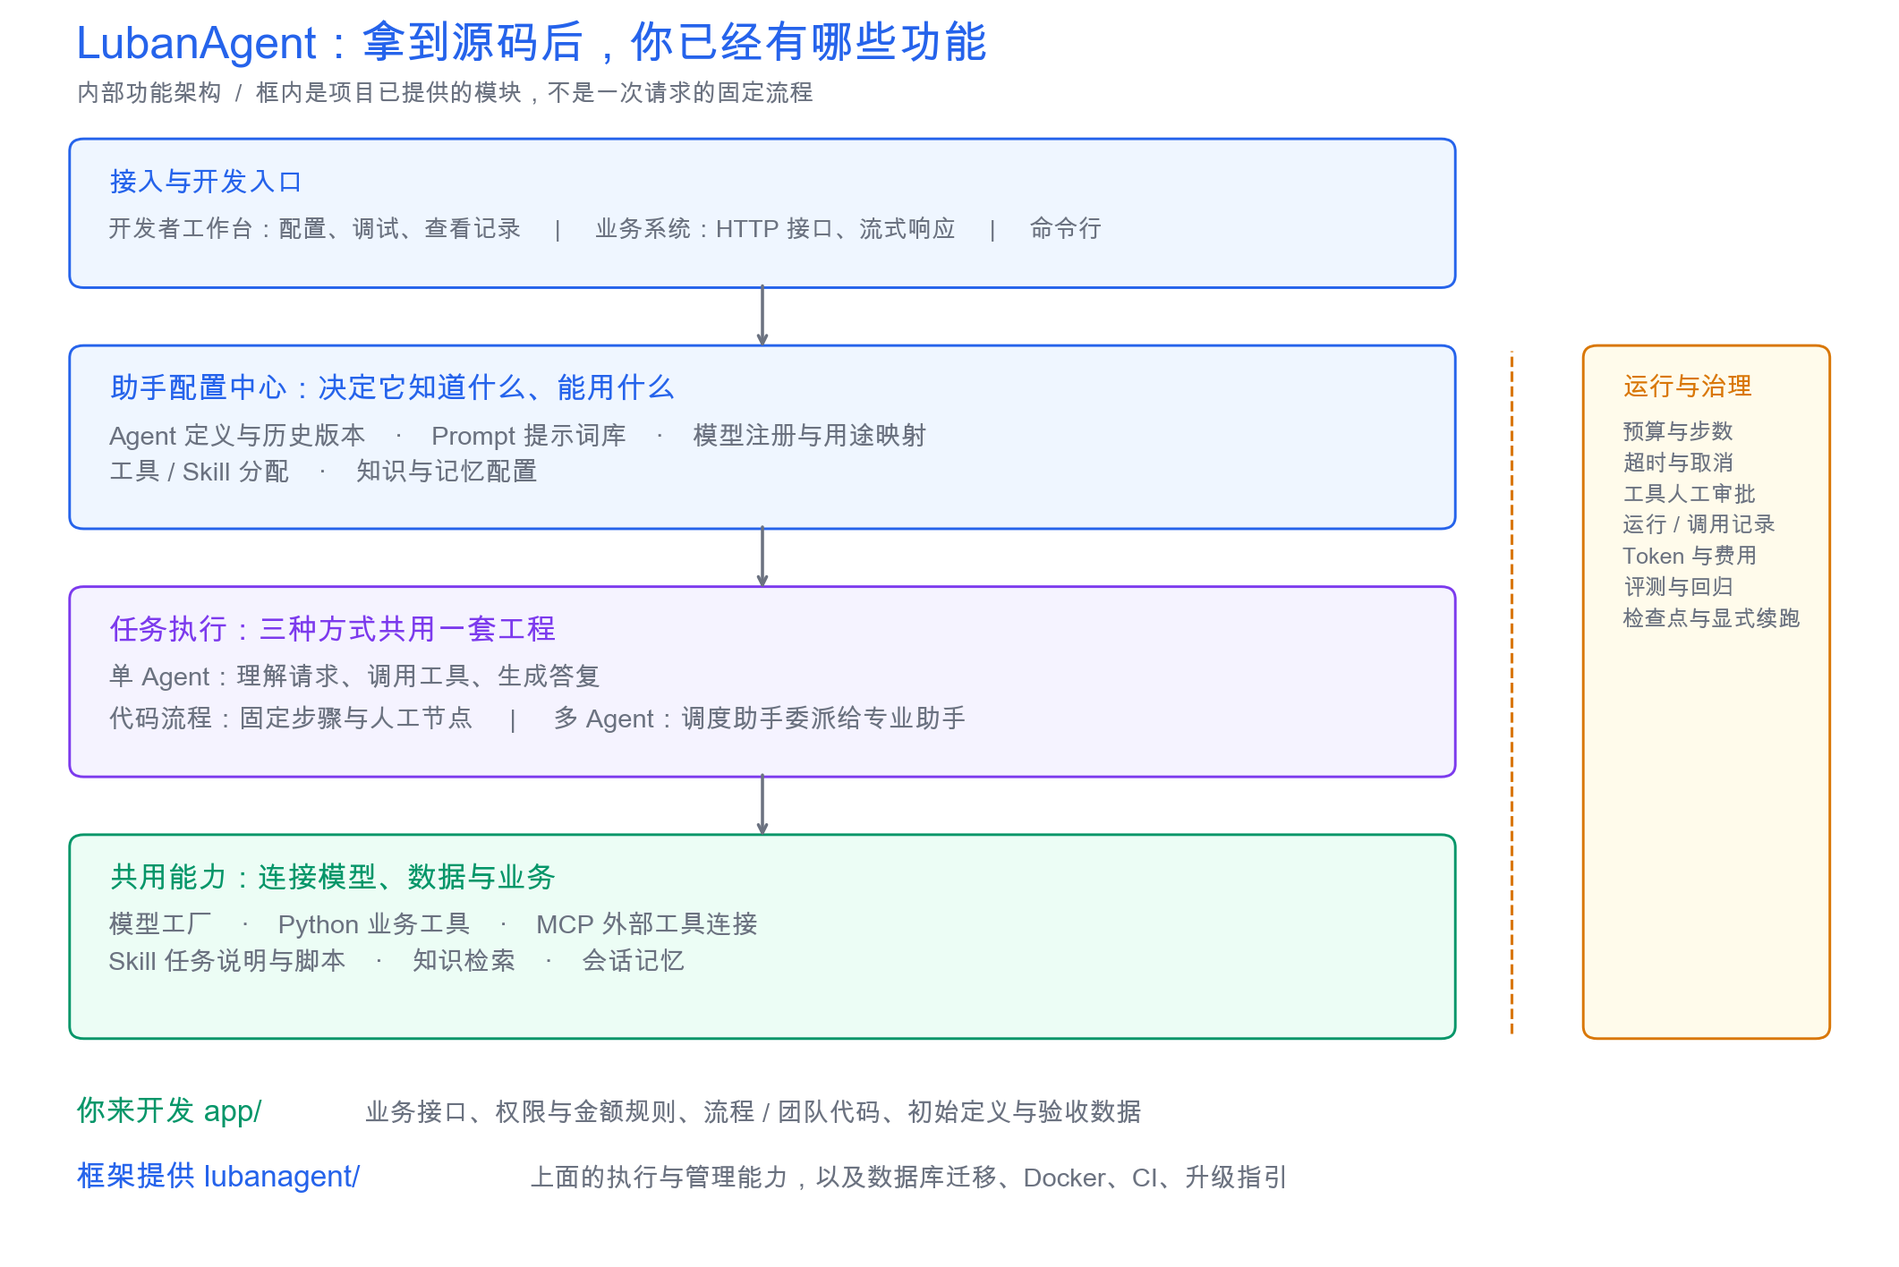
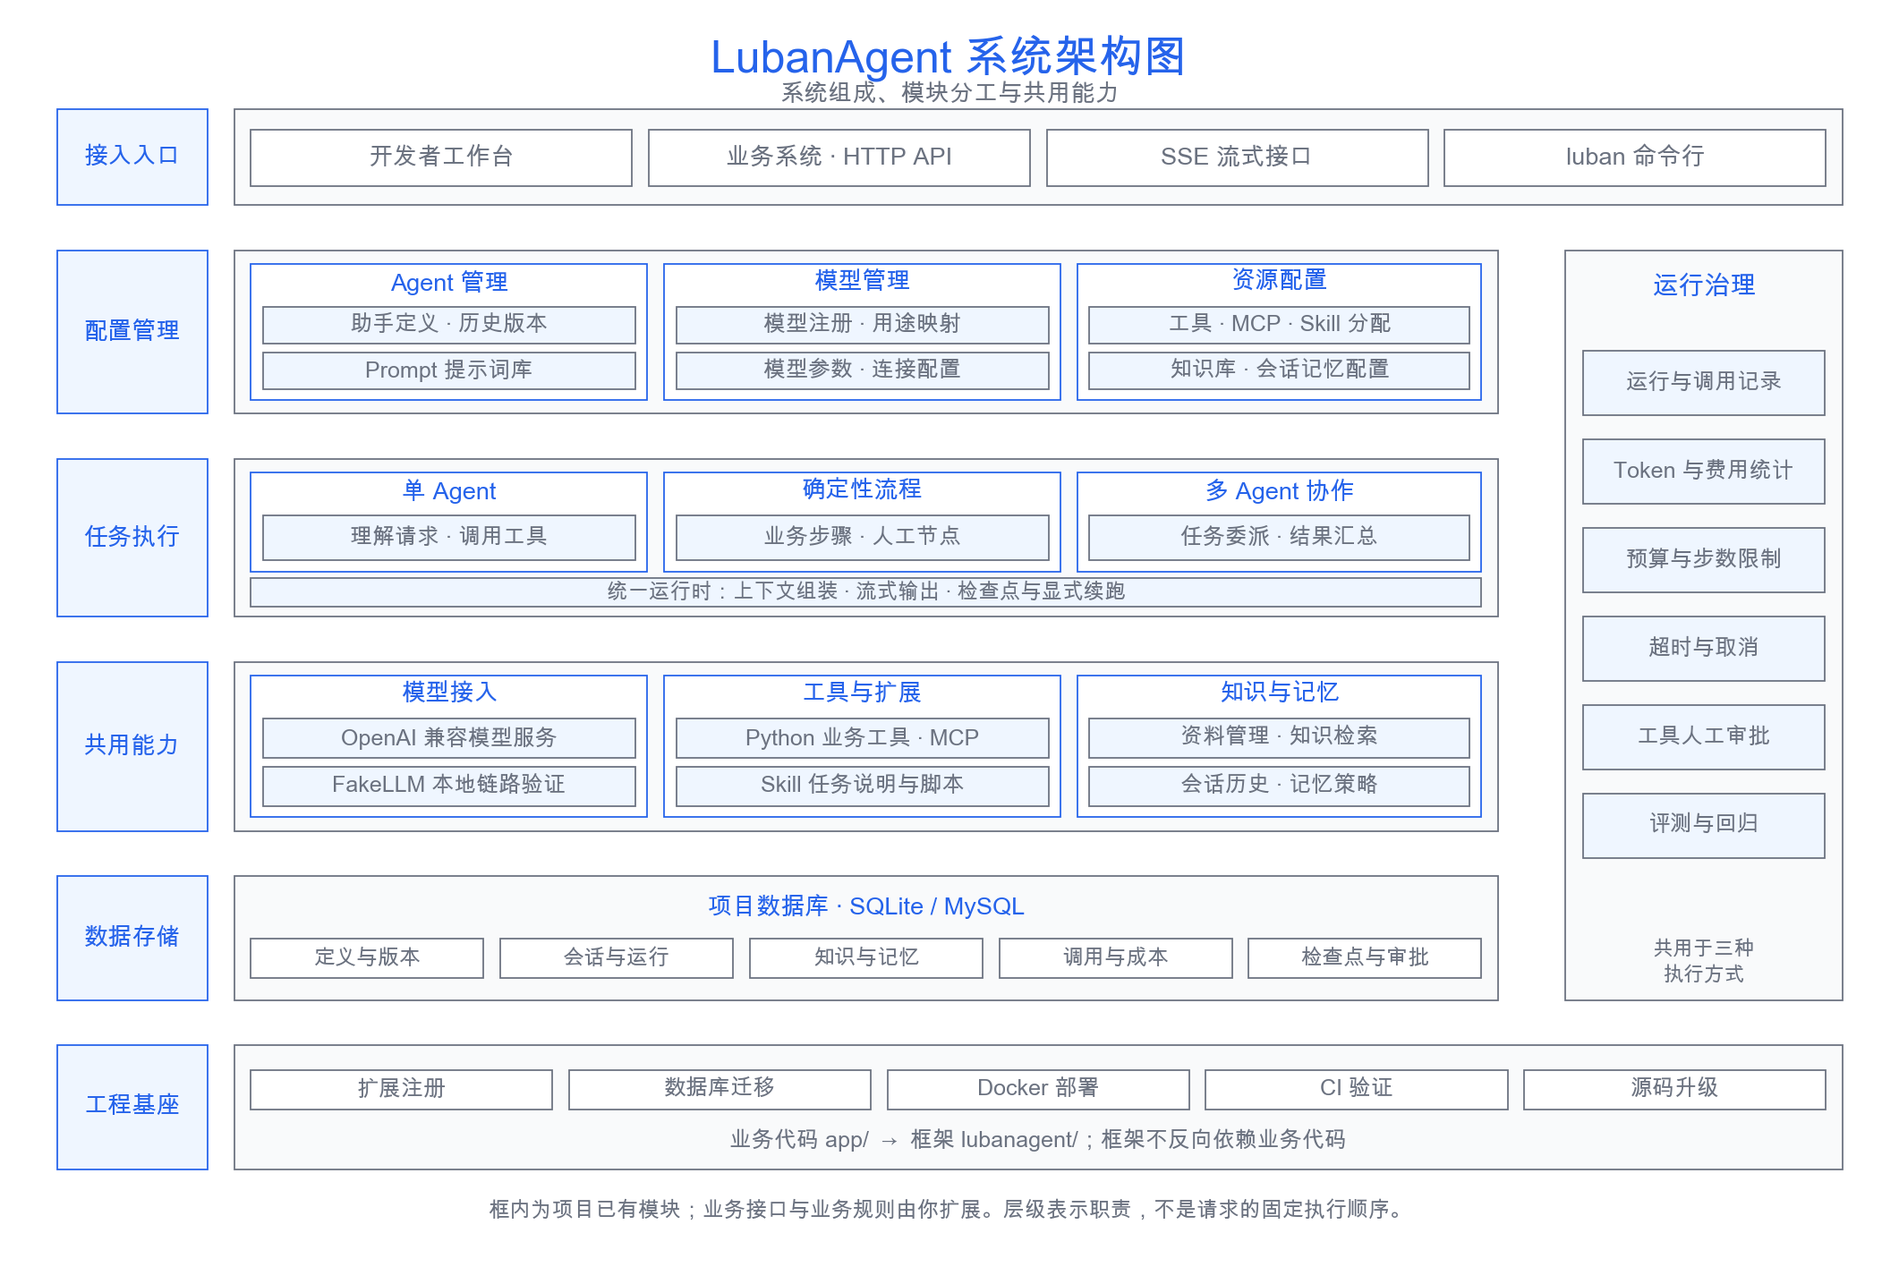
docs: 重绘分层系统架构与技术架构图

diff --git a/website/manual/images/luban-dependencies.py b/website/manual/images/luban-dependencies.py
@@ -65,58 +65,104 @@ def arc_rad(bend='right', strength=0.3) -> float:
 # ── 保存规范（禁止修改 dpi 和 facecolor）──
 # plt.savefig('images/chapter-XX/xxx.png', dpi=150, bbox_inches='tight', facecolor='white')
 # plt.close()
+# ── Layout design ──
+# Canvas=(18,12), extent x=0..28,y=0..22. Same grid/style as system architecture.
+# Labels x=.65..2.9; main x=3.3..22.2; delivery x=23.2..27.35.
+# Clients y=18.6..20.3; frontend y=15.5..17.8 (gap .8).
+# API y=12.8..14.7 (gap .8); execution y=9.3..12.0 (gap .8).
+# Adapters y=6.4..8.5 (gap .8); persistence y=3.3..5.6 (gap .8).
+# External resources y=.9..2.5 (gap .8); delivery y=3.3..17.8.
+# No dependency spiderweb or invented distributed components; nested tech modules.
 from pathlib import Path
 import matplotlib
 matplotlib.use('Agg')
 
-# All positions below are data coordinates; text is validated against its panel.
-def panel(ax, x, y, w, h, title, body, edge, fill, fontsize=13):
-    ax.add_patch(mpatches.FancyBboxPatch((x,y),w,h,boxstyle='round,pad=0.08,rounding_size=0.18',linewidth=1.4,edgecolor=edge,facecolor=fill))
-    ax.text(x+0.42,y+h-0.38,safe_text(title),ha='left',va='top',fontsize=fontsize+2,fontweight='bold',color=edge)
-    text=ax.text(x+0.42,y+h-1.04,safe_text(body),ha='left',va='top',fontsize=fontsize,color=GRAY,linespacing=1.65)
-    return text, (x,y,w,h)
+# Restrained enterprise architecture: blue/gray, rectangular nested modules.
+# Text is checked against its own cell; peer cells may not overlap.
+TEXTS = []
+CELLS = []
+def box(x, y, w, h, fill='white', edge=GRAY, lw=0.85, dashed=False):
+    ax.add_patch(mpatches.Rectangle((x,y),w,h,facecolor=fill,edgecolor=edge,
+                                  linewidth=lw,linestyle='--' if dashed else '-'))
 
-def validate(fig, ax, panels):
+def label(x,y,w,h,text,size=12,bold=False,color=GRAY):
+    t=ax.text(x+w/2,y+h/2,safe_text(text),ha='center',va='center',
+              fontsize=size,fontweight='bold' if bold else 'normal',
+              color=color,linespacing=1.45)
+    TEXTS.append((t,(x,y,w,h)))
+
+def cell(x,y,w,h,text,size=12,fill='white',accent=False):
+    box(x,y,w,h,fill,BLUE if accent else GRAY,0.85)
+    label(x,y,w,h,text,size,accent,BLUE if accent else GRAY)
+    CELLS.append((x,y,w,h,text))
+
+def layer(y,h,title,w=18.9):
+    box(.65,y,2.25,h,LIGHT_BLUE,BLUE)
+    label(.65,y,2.25,h,title,13,True,BLUE)
+    box(3.3,y,w,h,LIGHT_GRAY,GRAY)
+
+def group(x,y,w,h,title,items):
+    box(x,y,w,h,'white',BLUE)
+    label(x,y+h-.62,w,.58,title,13,True,BLUE)
+    count=len(items);gap=.16;inner_y=y+.20;inner_h=h-.96
+    cell_h=(inner_h-gap*(count-1))/count
+    for i,text in enumerate(items):
+        cell(x+.18,inner_y+(count-1-i)*(cell_h+gap),w-.36,cell_h,text,12,LIGHT_BLUE)
+
+def chips(x,y,w,h,items,size=12):
+    gap=.25;cw=(w-gap*(len(items)-1))/len(items)
+    for i,text in enumerate(items):cell(x+i*(cw+gap),y,cw,h,text,size)
+
+def validate():
     fig.canvas.draw()
-    for text,(x,y,w,h) in panels:
-        bounds=text.get_window_extent().transformed(ax.transData.inverted())
-        assert bounds.x0 >= x and bounds.x1 <= x+w, (text.get_text(),bounds)
-        assert bounds.y0 >= y and bounds.y1 <= y+h, (text.get_text(),bounds)
+    failures = []
+    for text,(x,y,w,h) in TEXTS:
+        bb=text.get_window_extent().transformed(ax.transData.inverted())
+        if not (x+.03<=bb.x0 and bb.x1<=x+w-.03): failures.append((text.get_text(),'horizontal',str(bb),(x,y,w,h)))
+        if not (y+.025<=bb.y0 and bb.y1<=y+h-.025): failures.append((text.get_text(),'vertical',str(bb),(x,y,w,h)))
+    assert not failures, failures
+    for i,a in enumerate(CELLS):
+        for b in CELLS[i+1:]:
+            overlap_x=min(a[0]+a[2],b[0]+b[2])-max(a[0],b[0])
+            overlap_y=min(a[1]+a[3],b[1]+b[3])-max(a[1],b[1])
+            assert overlap_x<=.01 or overlap_y<=.01,(a[4],b[4],'overlap')
 
-def arrow(ax, x1,y1,x2,y2, dashed=False):
-    ax.annotate('',xy=(x2,y2),xytext=(x1,y1),arrowprops=dict(arrowstyle='->',color=GRAY,lw=1.7,linestyle='--' if dashed else '-'))
+fig,ax=plt.subplots(figsize=(18,12))
+ax.set_xlim(0,28);ax.set_ylim(0,22);ax.axis('off')
 
-# Layout design (calculated before drawing):
-# figure=(18,12), xlim=(0,24), ylim=(0,18).
-# app x9..15,y8.0..10.6; libs x7..17,y13.4..15.8 -> vertical gap2.8.
-# model x.6..5.6,y8.0..10.6; obs x18.4..23.4 same y -> horizontal gap3.4.
-# database x9..15,y3.8..6.4 -> vertical gap1.6; business and MCP same bottom row.
-# optional elbows in x7.2 /16.8 gutters, never across panel interiors.
-fig,ax=plt.subplots(figsize=(18,12));ax.set_xlim(0,24);ax.set_ylim(0,18);ax.axis('off')
-ax.text(.6,17.25,safe_text('系统依赖：哪些在程序里，哪些要单独连接'),fontsize=24,fontweight='bold',color=BLUE)
-ax.text(.6,16.55,safe_text('箭头：使用方 → 被依赖方     |     实线：运行关系     |     虚线：按场景启用'),fontsize=13,color=GRAY)
-checks=[]
-checks.append(panel(ax,7,13.4,10,2.4,'Python 程序里的库，不是独立服务','FastAPI：接口     ·     LangChain：模型 / 工具接入\nLangGraph：任务执行     ·     SQLAlchemy：数据库访问',BLUE,LIGHT_BLUE,13))
-checks.append(panel(ax,9,8,6,2.6,'LubanAgent 应用','Python 后端 + 构建后的工作台\n你部署和定制的主体',BLUE,LIGHT_BLUE,14))
-checks.append(panel(ax,.6,8,5,2.6,'真实业务：模型服务','DeepSeek / Qwen / GLM 等\n或 Ollama / vLLM 本地服务',PURPLE,LIGHT_PURPLE,12))
-checks.append(panel(ax,18.4,8,5,2.6,'可选：观测平台','Langfuse 自部署 / LangSmith\n关闭后仍保留内部运行记录',ORANGE,LIGHT_ORANGE,12))
-checks.append(panel(ax,9,3.8,6,2.6,'项目数据库：必须','SQLite 文件 / MySQL 服务\n配置、版本、知识、运行记录、检查点',GREEN,LIGHT_GREEN,11.5))
-checks.append(panel(ax,.6,3.8,5,2.6,'按业务：你自己的系统','订单 / 工单 / 内部服务\nPython 业务工具去调用',GREEN,LIGHT_GREEN,12))
-checks.append(panel(ax,18.4,3.8,5,2.6,'可选：外部工具与数据','MCP Server / 向量模型等\n根据业务和检索要求接入',GREEN,LIGHT_GREEN,12))
-arrow(ax,12,10.6,12,13.4)
-arrow(ax,9,9.3,5.6,9.3,True)
-arrow(ax,15,9.3,18.4,9.3,True)
-arrow(ax,12,8,12,6.4)
-# Optional business integrations, elbow lines avoid crossing unrelated services.
-for start,gutter,end in [(9,7.2,5.6),(15,16.8,18.4)]:
-    ax.plot([start,gutter,gutter],[8.35,8.35,5.1],color=GRAY,lw=1.5,linestyle='--')
-    arrow(ax,gutter,5.1,end,5.1,True)
-ax.text(.6,2.55,safe_text('最小起步'),fontsize=16,fontweight='bold',color=BLUE)
-ax.text(3.3,2.55,safe_text('Python + SQLite + FakeLLM 固定回复；不接真实模型也能验证链路'),fontsize=14,color=GRAY)
-ax.text(.6,1.65,safe_text('真实业务'),fontsize=16,fontweight='bold',color=GREEN)
-ax.text(3.3,1.65,safe_text('再连接真实模型、业务接口；观测与外部工具按需接入'),fontsize=14,color=GRAY)
-ax.text(.6,.65,safe_text('Node.js 只用于前端开发 / 构建。文档站独立发布；Docker 五服务组合是演示，不是最低运行要求。'),fontsize=12,color=GRAY)
-validate(fig,ax,checks)
+label(.65,20.70,26.7,1.02,'LubanAgent 技术架构图',24,True,BLUE)
+label(.65,20.26,26.7,.58,'前端、Python 后端、数据与工程交付',13)
+layer(18.6,1.7,'访问端',24.05)
+chips(3.55,18.94,23.55,1.0,['浏览器 · 工作台','业务系统 · HTTP 客户端','命令行 · Typer CLI'],13)
+
+layer(15.5,2.3,'前端工作台')
+chips(3.55,16.26,18.4,1.08,['React 18\nTypeScript','Tailwind CSS\nRadix UI','React Router\nTanStack Query','OpenAPI 类型\nopenapi-fetch'],12)
+label(3.55,15.65,18.4,.53,'工作台静态资源由 Python 服务提供；Node.js 用于开发与构建',11.5)
+
+layer(12.8,1.9,'接口服务')
+chips(3.55,13.26,18.4,1.00,['FastAPI\nREST · SSE · OpenAPI','Pydantic\n参数校验 · 配置','Uvicorn\nASGI 服务'],12)
+
+layer(9.3,2.7,'执行引擎')
+group(3.55,9.54,5.93,2.22,'LangGraph',['单 Agent · 代码流程','多 Agent 委派 · 图执行'])
+group(9.73,9.54,5.93,2.22,'LangChain',['消息与模型接口','工具调用适配'])
+group(15.91,9.54,6.04,2.22,'Luban Runtime',['上下文 · 检查点','取消 · 超时 · 预算'])
+
+layer(6.4,2.1,'能力适配')
+chips(3.55,6.86,18.4,1.18,['模型工厂\nlangchain-openai','工具与协议\nPython Tool · MCP SDK','Skill 执行\n说明加载 · 脚本沙箱','知识与记忆\n检索 · 会话上下文'],11.5)
+
+layer(3.3,2.3,'数据持久化')
+chips(3.55,4.13,18.4,1.03,['SQLAlchemy 2\n异步 ORM · 仓储','Alembic\n数据库 Schema 迁移','SQLite / MySQL\n定义 · 运行 · 检查点'],12)
+label(3.55,3.48,18.4,.50,'内部数据库是事实源；上传的知识文件与形象文件存于本地目录',11.5)
+
+box(23.2,3.3,4.15,14.5,LIGHT_GRAY,GRAY)
+label(23.2,16.84,4.15,.7,'工程与交付',14,True,BLUE)
+for i,item in enumerate(['Vite · 前端构建','uv · 依赖锁定','Docker / Compose','GitHub Actions','pytest / Ruff','import-linter','业务 / 框架隔离','升级与迁移指引']):
+    cell(23.47,15.15-i*1.48,3.61,1.03,item,11.5,LIGHT_BLUE)
+
+layer(.9,1.6,'外部资源',24.05)
+chips(3.55,1.20,23.55,1.0,['真实业务 · 模型服务','按需 · 业务接口 / MCP 服务','可选观测 · Langfuse / LangSmith'],12)
+label(.65,.19,26.7,.49,'后端使用 Python ≥3.11；框内是技术模块，不是独立微服务。不要求 Redis、消息队列或 Kubernetes。',11.5)
+validate()
 path=Path(__file__).with_suffix('.png')
 plt.savefig(path,dpi=150,bbox_inches='tight',facecolor='white');plt.close()
-print(str(path.resolve()))
+print(str(path.resolve())+' | text_bounds=PASS | peer_overlap=PASS')

diff --git a/website/manual/images/luban-architecture.py b/website/manual/images/luban-architecture.py
@@ -65,51 +65,107 @@ def arc_rad(bend='right', strength=0.3) -> float:
 # ── 保存规范（禁止修改 dpi 和 facecolor）──
 # plt.savefig('images/chapter-XX/xxx.png', dpi=150, bbox_inches='tight', facecolor='white')
 # plt.close()
+# ── Layout design ──
+# Canvas=(18,12), data extent x=0..28,y=0..22. Title y=21.1.
+# Layer labels x=.65..2.9; main x=3.3..22.2; governance x=23.2..27.35.
+# Entry y=18.6..20.3; config y=14.9..17.8 (gap .8).
+# Execution y=11.3..14.1 (gap .8); shared capabilities y=7.5..10.5 (gap .8).
+# Storage y=4.5..6.7 (gap .8); foundation y=1.5..3.7 (gap .8).
+# Governance y=4.5..17.8. No flow arrows: structure/containment, not request sequence.
+# Three peer groups width5.93, inter-group gap=.25; no crossing connectors.
 from pathlib import Path
 import matplotlib
 matplotlib.use('Agg')
 
-# All positions below are data coordinates; text is validated against its panel.
-def panel(ax, x, y, w, h, title, body, edge, fill, fontsize=13):
-    ax.add_patch(mpatches.FancyBboxPatch((x,y),w,h,boxstyle='round,pad=0.08,rounding_size=0.18',linewidth=1.4,edgecolor=edge,facecolor=fill))
-    ax.text(x+0.42,y+h-0.38,safe_text(title),ha='left',va='top',fontsize=fontsize+2,fontweight='bold',color=edge)
-    text=ax.text(x+0.42,y+h-1.04,safe_text(body),ha='left',va='top',fontsize=fontsize,color=GRAY,linespacing=1.65)
-    return text, (x,y,w,h)
+# Restrained enterprise architecture: blue/gray, rectangular nested modules.
+# Text is checked against its own cell; peer cells may not overlap.
+TEXTS = []
+CELLS = []
+def box(x, y, w, h, fill='white', edge=GRAY, lw=0.85, dashed=False):
+    ax.add_patch(mpatches.Rectangle((x,y),w,h,facecolor=fill,edgecolor=edge,
+                                  linewidth=lw,linestyle='--' if dashed else '-'))
 
-def validate(fig, ax, panels):
+def label(x,y,w,h,text,size=12,bold=False,color=GRAY):
+    t=ax.text(x+w/2,y+h/2,safe_text(text),ha='center',va='center',
+              fontsize=size,fontweight='bold' if bold else 'normal',
+              color=color,linespacing=1.45)
+    TEXTS.append((t,(x,y,w,h)))
+
+def cell(x,y,w,h,text,size=12,fill='white',accent=False):
+    box(x,y,w,h,fill,BLUE if accent else GRAY,0.85)
+    label(x,y,w,h,text,size,accent,BLUE if accent else GRAY)
+    CELLS.append((x,y,w,h,text))
+
+def layer(y,h,title,w=18.9):
+    box(.65,y,2.25,h,LIGHT_BLUE,BLUE)
+    label(.65,y,2.25,h,title,13,True,BLUE)
+    box(3.3,y,w,h,LIGHT_GRAY,GRAY)
+
+def group(x,y,w,h,title,items):
+    box(x,y,w,h,'white',BLUE)
+    label(x,y+h-.62,w,.58,title,13,True,BLUE)
+    count=len(items);gap=.16;inner_y=y+.20;inner_h=h-.96
+    cell_h=(inner_h-gap*(count-1))/count
+    for i,text in enumerate(items):
+        cell(x+.18,inner_y+(count-1-i)*(cell_h+gap),w-.36,cell_h,text,12,LIGHT_BLUE)
+
+def chips(x,y,w,h,items,size=12):
+    gap=.25;cw=(w-gap*(len(items)-1))/len(items)
+    for i,text in enumerate(items):cell(x+i*(cw+gap),y,cw,h,text,size)
+
+def validate():
     fig.canvas.draw()
-    for text,(x,y,w,h) in panels:
-        bounds=text.get_window_extent().transformed(ax.transData.inverted())
-        assert bounds.x0 >= x and bounds.x1 <= x+w, (text.get_text(),bounds)
-        assert bounds.y0 >= y and bounds.y1 <= y+h, (text.get_text(),bounds)
+    failures = []
+    for text,(x,y,w,h) in TEXTS:
+        bb=text.get_window_extent().transformed(ax.transData.inverted())
+        if not (x+.03<=bb.x0 and bb.x1<=x+w-.03): failures.append((text.get_text(),'horizontal',str(bb),(x,y,w,h)))
+        if not (y+.025<=bb.y0 and bb.y1<=y+h-.025): failures.append((text.get_text(),'vertical',str(bb),(x,y,w,h)))
+    assert not failures, failures
+    for i,a in enumerate(CELLS):
+        for b in CELLS[i+1:]:
+            overlap_x=min(a[0]+a[2],b[0]+b[2])-max(a[0],b[0])
+            overlap_y=min(a[1]+a[3],b[1]+b[3])-max(a[1],b[1])
+            assert overlap_x<=.01 or overlap_y<=.01,(a[4],b[4],'overlap')
 
-def arrow(ax, x1,y1,x2,y2, dashed=False):
-    ax.annotate('',xy=(x2,y2),xytext=(x1,y1),arrowprops=dict(arrowstyle='->',color=GRAY,lw=1.7,linestyle='--' if dashed else '-'))
-
-# Layout design (calculated before drawing):
-# figure=(18,12), xlim=(0,24), ylim=(0,18).
-# main panels x=.8..18.4; governance x=20.2..23.2 -> horizontal gap1.8.
-# entry y=14.1..16.1; config y=10.6..13.1 -> vertical gap1.0.
-# execution y=7.0..9.6 -> gap1.0; capabilities y=3.2..6.0 -> gap1.0.
-# arrows are vertical at x=9.6 and exactly meet panel borders.
 fig,ax=plt.subplots(figsize=(18,12))
-ax.set_xlim(0,24);ax.set_ylim(0,18);ax.axis('off')
-ax.text(.8,17.35,safe_text('LubanAgent：拿到源码后，你已经有哪些功能'),fontsize=24,fontweight='bold',color=BLUE)
-ax.text(.8,16.72,safe_text('内部功能架构  /  框内是项目已提供的模块，不是一次请求的固定流程'),fontsize=13,color=GRAY)
-checks=[]
-checks.append(panel(ax,.8,14.1,17.6,2.0,'接入与开发入口','开发者工作台：配置、调试、查看记录     |     业务系统：HTTP 接口、流式响应     |     命令行',BLUE,LIGHT_BLUE,13))
-checks.append(panel(ax,.8,10.6,17.6,2.5,'助手配置中心：决定它知道什么、能用什么','Agent 定义与历史版本    ·    Prompt 提示词库    ·    模型注册与用途映射\n工具 / Skill 分配    ·    知识与记忆配置',BLUE,LIGHT_BLUE,14))
-checks.append(panel(ax,.8,7.0,17.6,2.6,'任务执行：三种方式共用一套工程','单 Agent：理解请求、调用工具、生成答复\n代码流程：固定步骤与人工节点     |     多 Agent：调度助手委派给专业助手',PURPLE,LIGHT_PURPLE,14))
-checks.append(panel(ax,.8,3.2,17.6,2.8,'共用能力：连接模型、数据与业务','模型工厂    ·    Python 业务工具    ·    MCP 外部工具连接\nSkill 任务说明与脚本    ·    知识检索    ·    会话记忆',GREEN,LIGHT_GREEN,14))
-for top,bottom in [(14.1,13.1),(10.6,9.6),(7.0,6.0)]:arrow(ax,9.6,top,9.6,bottom)
-checks.append(panel(ax,20.2,3.2,3.0,9.9,'运行与治理','预算与步数\n超时与取消\n工具人工审批\n运行 / 调用记录\nToken 与费用\n评测与回归\n检查点与显式续跑',ORANGE,LIGHT_ORANGE,12))
-# Governance is cross-cutting, not an extra serial execution step.
-ax.plot([19.2,19.2],[3.2,13.1],color=ORANGE,lw=1.5,linestyle='--')
-ax.text(.8,1.92,safe_text('你来开发 app/'),fontsize=16,fontweight='bold',color=GREEN)
-ax.text(4.5,1.92,safe_text('业务接口、权限与金额规则、流程 / 团队代码、初始定义与验收数据'),fontsize=14,color=GRAY)
-ax.text(.8,.98,safe_text('框架提供 lubanagent/'),fontsize=16,fontweight='bold',color=BLUE)
-ax.text(6.6,.98,safe_text('上面的执行与管理能力，以及数据库迁移、Docker、CI、升级指引'),fontsize=14,color=GRAY)
-validate(fig,ax,checks)
+ax.set_xlim(0,28);ax.set_ylim(0,22);ax.axis('off')
+
+label(.65,20.70,26.7,1.02,'LubanAgent 系统架构图',24,True,BLUE)
+label(.65,20.26,26.7,.58,'系统组成、模块分工与共用能力',13)
+layer(18.6,1.7,'接入入口',24.05)
+chips(3.55,18.94,23.55,1.0,['开发者工作台','业务系统 · HTTP API','SSE 流式接口','luban 命令行'],13)
+
+layer(14.9,2.9,'配置管理')
+group(3.55,15.14,5.93,2.42,'Agent 管理',['助手定义 · 历史版本','Prompt 提示词库'])
+group(9.73,15.14,5.93,2.42,'模型管理',['模型注册 · 用途映射','模型参数 · 连接配置'])
+group(15.91,15.14,6.04,2.42,'资源配置',['工具 · MCP · Skill 分配','知识库 · 会话记忆配置'])
+
+layer(11.3,2.8,'任务执行')
+group(3.55,12.10,5.93,1.76,'单 Agent',['理解请求 · 调用工具'])
+group(9.73,12.10,5.93,1.76,'确定性流程',['业务步骤 · 人工节点'])
+group(15.91,12.10,6.04,1.76,'多 Agent 协作',['任务委派 · 结果汇总'])
+cell(3.55,11.47,18.40,.52,'统一运行时：上下文组装 · 流式输出 · 检查点与显式续跑',11.3,LIGHT_BLUE)
+
+layer(7.5,3.0,'共用能力')
+group(3.55,7.74,5.93,2.52,'模型接入',['OpenAI 兼容模型服务','FakeLLM 本地链路验证'])
+group(9.73,7.74,5.93,2.52,'工具与扩展',['Python 业务工具 · MCP','Skill 任务说明与脚本'])
+group(15.91,7.74,6.04,2.52,'知识与记忆',['资料管理 · 知识检索','会话历史 · 记忆策略'])
+
+layer(4.5,2.2,'数据存储')
+label(3.55,5.89,18.4,.53,'项目数据库 · SQLite / MySQL',13,True,BLUE)
+chips(3.55,4.89,18.4,.69,['定义与版本','会话与运行','知识与记忆','调用与成本','检查点与审批'],11.5)
+
+box(23.2,4.5,4.15,13.3,LIGHT_GRAY,GRAY)
+label(23.2,16.76,4.15,.75,'运行治理',14,True,BLUE)
+for i,item in enumerate(['运行与调用记录','Token 与费用统计','预算与步数限制','超时与取消','工具人工审批','评测与回归']):
+    cell(23.47,14.87-i*1.57,3.61,1.14,item,12,LIGHT_BLUE)
+label(23.47,4.70,3.61,.88,'共用于三种\n执行方式',11)
+
+layer(1.5,2.2,'工程基座',24.05)
+chips(3.55,2.56,23.55,.70,['扩展注册','数据库迁移','Docker 部署','CI 验证','源码升级'],12)
+label(3.55,1.76,23.55,.51,'业务代码 app/  →  框架 lubanagent/；框架不反向依赖业务代码',12)
+label(.65,.46,26.7,.58,'框内为项目已有模块；业务接口与业务规则由你扩展。层级表示职责，不是请求的固定执行顺序。',11.5)
+validate()
 path=Path(__file__).with_suffix('.png')
 plt.savefig(path,dpi=150,bbox_inches='tight',facecolor='white');plt.close()
-print(str(path.resolve()))
+print(str(path.resolve())+' | text_bounds=PASS | peer_overlap=PASS')
